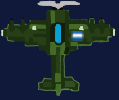
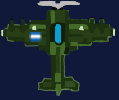
75%

Changed region(s): [[0.5798, 0.3, 0.7059, 0.42], [0.2269, 0.3, 0.3529, 0.42]]

diff --git a/main.py b/main.py
@@ -2,13 +2,13 @@ import pygame
 from inicio import Inicio
 from mapa import Mapa
 from jugador import Jugador
-from elementos import Avion1, Avion2, Misil1, Misil2, Nubes, Estrella, ColisionRoja, Ovni, Nivel
+from elementos import Avion1, Avion2, Misil1, Misil2, Nubes, Estrella, ColisionAviones, Ovni, Nivel
 pygame.init()
 
 medidaPantalla = (800,750)
 pantalla = pygame.display.set_mode(medidaPantalla)
 reloj = pygame.time.Clock()
-#inicio=Inicio()
+inicio=Inicio()
 
 vidaJugador = True
 dia= True
@@ -20,21 +20,22 @@ jugador=Jugador("Mica ")
 nubes=Nubes()
 misil1=Misil1()
 misil2=Misil2()
-colisionR=ColisionRoja()
+colision=ColisionAviones()
 estrella=Estrella()
 avion1= Avion1()
 avion2=Avion2()
 ovni=Ovni()
 nivel=Nivel()
+plusVida=True
 
-#inicio.dibujar()
+#inicio.dibujar(pantalla)
 
 
 while vidaJugador:
     mapa.dibujarMapa(pantalla)
     nubes.dibujarNubes(pantalla)
     mapa.marcador(pantalla, 1, jugador.puntos)
-    mapa.nivelJugador(pantalla, jugador.nombre)
+    mapa.estadoJugador(pantalla, jugador.nombre, jugador.vida)
     
 
     for event in pygame.event.get():
@@ -54,32 +55,34 @@ while vidaJugador:
     if jugador.puntos<80:                       #################################################---NIVEL1---
         rectA1=avion1.imagen.get_rect(x=avion1.coordX, y=avion1.coordY)
         avion1.dibujarAvion(pantalla,4.5,5)
-        if rectJ.colliderect(rectA1):   #agregar colision balas
-            pass
-            #jugador.vida-=1
-            #print("-1")
+        if rectJ.colliderect(rectA1): 
+            colision.explotar(pantalla, jugador.posX-20)
+            jugador.vida-=5
+        
         if rectJB.colliderect(rectA1) and jugador.BanderaImpacto:
             jugador.puntos+=10
             jugador.BanderaImpacto=False
 
  ##################---DefinirImagenLevelUp
 
+    plusVida=True
     if jugador.puntos>=80 and jugador.puntos<150 and misil1.contador<15:    ############################################---NIVEL2---
         rectM1=misil1.misil1[0].get_rect(x=misil1.coordX, y=misil1.coordY)
         rectM2=misil2.misil2[0].get_rect(x=misil2.coordX, y=misil2.coordY)
         misil1.dibujarMisil(pantalla)
         misil2.dibujarMisil(pantalla)
         if rectJ.colliderect(rectM1) or rectJ.colliderect(rectM2):
-            colisionR.explotarR(pantalla, jugador.posX)
+            colision.explotar(pantalla, jugador.posX-20)
+
 
 
     if (jugador.puntos>=150 and jugador.puntos<250) or misil1.contador==15:   ############################################---NIVEL3---
         rectA1=avion1.imagen.get_rect(x=avion1.coordX, y=avion1.coordY)
         rectA2=avion2.imagen.get_rect(x=avion2.coordX, y=avion2.coordY)
-        avion1.dibujarAvion(pantalla,4.5,5)
-        avion2.dibujarAvion(pantalla, 4.5,6)
+        avion1.dibujarAvion(pantalla,4,8)
+        avion2.dibujarAvion(pantalla, 4,8)
         if rectJ.colliderect(rectA1) or rectJ.colliderect(rectA2):
-            pass
+            colision.explotar(pantalla, jugador.posX-20)
         if rectJB.colliderect(rectA1) or rectJB.colliderect(rectA2):
             jugador.puntos+=10
             jugador.BanderaImpacto=False 
@@ -88,7 +91,12 @@ while vidaJugador:
         ovni.dibujarOvni(pantalla)
 
 
-    estrella.caer(pantalla)
+    if jugador.vida<800 and plusVida:
+        rectE=estrella.estrella.get_rect(x=estrella.coordX, y=estrella.coordY)
+        estrella.caer(pantalla)
+        plusVida=False
+        if rectJ.colliderect(rectE):
+            jugador.vida+=500
     #if colision==True:
     #    colision=False
     #    colisiones+=1

diff --git a/elementos.py b/elementos.py
@@ -141,9 +141,9 @@ class Misil2():
 class Ovni():
     def __init__(self):
         self.coordX=10
-        self.coordY=80
+        self.coordY=100
         self.cuadro=0
-        self.imagen=pygame.image.load("img/Ovni.png")
+        self.imagen=pygame.image.load("img/Ovnidos.png")
         self.direct=4
         self.imagenBala=pygame.image.load("img/DisparoOvni.png")
         self.imagenBala.set_colorkey([255,255,255])
@@ -166,7 +166,7 @@ class Ovni():
 
         if self.banderaDireccionY:
             self.coordY+=3.5
-            if self.coordY>80:
+            if self.coordY>100:
                 self.banderaDireccionY=False
         else:
             self.coordY-=3.5
@@ -227,30 +227,30 @@ class Estrella():
         self.coordX+=1
         pantalla.blit(self.estrella, (self.coordX, self.coordY))
 
-class ColisionRoja():
+
+class ColisionAviones():
     def __init__(self):
-        self.Y=580
+        self.Y=570
         self.cuadro=0
         self.listaImg=[]
-        self.Img0=pygame.image.load('img/ExplosionOvniCh.png').convert()
+        self.Img0=pygame.image.load('img/ExplosionOvniCh1.png')
         self.Img0.set_colorkey([255,255,255])
-        self.Img1=pygame.image.load('img/ExplosionOvniCh.png').convert()
+        self.Img1=pygame.image.load('img/ExplosionOvniCh2.png')
         self.Img1.set_colorkey([255,255,255])
-        self.Img2=pygame.image.load('img/ExplosionOvniCh.png').convert()
+        self.Img2=pygame.image.load('img/ExplosionOvniCh3.png')
         self.Img2.set_colorkey([255,255,255])
         self.listaImg.append(self.Img0)
         self.listaImg.append(self.Img1)
         self.listaImg.append(self.Img2)
 
-    def explotarR(self, pantalla, coordX):
-        for j in range(10):
-            for i in range (8):
-                if i<3:
-                    pantalla.blit(self.listaImg[2], (coordX, self.Y-18))
-                elif i<6:
-                    pantalla.blit(self.listaImg[1], (coordX, self.Y))
-                else:
-                    pantalla.blit(self.listaImg[0], (coordX, self.Y-30))
+    def explotar(self, pantalla, coordX):    
+        if self.cuadro==0:
+            self.cuadro+=1
+        elif self.cuadro==1:
+            self.cuadro+=1
+        elif self.cuadro==2:
+            self.cuadro=0
+        pantalla.blit(self.listaImg[self.cuadro], (coordX, self.Y))
 
 class Nivel():
     def __init__(self):

diff --git a/inicio.py b/inicio.py
@@ -1,13 +1,47 @@
 import pygame
+pygame.init()
 
 class Inicio():
-    def dibujar(self, pantalla, text):
-        self.fondo=pygame.image.load("img/noche.png")
-        self.fuente=pygame.font.SysFont("Courier", 30, bold= True)
-        self.superficie=self.fuente.render(text,True,(255,255,255))
-        pantalla.blit(self.fondo, [0, 0])
+    def dibujar(self, pantalla):
+        self.bandera=True
+        self.fondo=pygame.image.load("img/Bienvenido.png").convert()
+        self.enterCh=pygame.image.load("img/EnterCh.png").convert()
+        self.enterGR=pygame.image.load("img/EnterGr.png").convert()
+        self.cuadro=0
+        self.enter=[]
+        self.enter.append(pygame.image.load("img/EnterCh.png"))
+        self.enter.append(pygame.image.load("img/EnterGr.png"))
+        self.contador=0
+
+        while self.bandera:
+            for event in pygame.event.get():
+                if event.type == pygame.KEYDOWN:
+                    if event.key == pygame.K_KP_ENTER:
+                        self.bandera = False
+
+            if self.cuadro==0:
+                self.contador+=1
+                if self.contador>20:
+                    self.cuadro=1
+            if self.cuadro==1:
+                self.contador-=1
+                if self.contador<1:
+                    self.cuadro=0
         
+            pantalla.blit(self.fondo, [0, 0])
+            pantalla.blit(self.enter[self.cuadro], [4, 680])
+
 
         ##################--Definir: seleccion de acciones para ingresar, modificar, listar y eliminar jugadores.
         ### Definir selección de avion
 
+#prueba
+
+
+medidaPantalla = (800,750)
+pantalla = pygame.display.set_mode(medidaPantalla)
+
+inicio=Inicio()
+inicio.dibujar(pantalla)
+
+pygame.display.flip()

diff --git a/mapa.py b/mapa.py
@@ -29,13 +29,23 @@ class Mapa:
         pantalla.blit(self.superficie, [20, 20])
         pantalla.blit(self.superficieN, [20, 40])
 
-    def nivelJugador(self, pantalla, jugador):
+    def estadoJugador(self, pantalla, jugador, vida):
         self.color= (0 ,0 ,0)
         self.colorFondo=(255,255,255)
         self.fuente=pygame.font.SysFont("Courier", 20, bold= True)
         self.superficie=self.fuente.render(str(jugador),True,self.color, self.colorFondo)
         self.vida=pygame.image.load('img/vida.png')
         self.vida.set_colorkey([255,255,255])
-        pantalla.blit(self.vida, [690, 20])
-        pantalla.blit(self.superficie, [620, 20])
+        pantalla.blit(self.superficie, [700, 20])
+        
+        if vida==1000:
+            pantalla.blit(self.vida, [730, 50])
+        if vida>800:
+            pantalla.blit(self.vida, [690, 50])
+        if vida>600:
+            pantalla.blit(self.vida, [650, 50])
+        if vida>400:
+            pantalla.blit(self.vida, [610, 50])
+        if vida>200:
+            pantalla.blit(self.vida, [570, 50])
         

diff --git a/accesoDatos.py b/accesoDatos.py
@@ -23,16 +23,6 @@ class AccesoDatos:
             except Error as ex:
                 print(f'Fallo: {ex}')
 
-    def ejecutarAccion(self,string):
-        if self.conexion.is_connected():
-            try:
-                cursor=self.conexion.cursor()
-                cursor.execute(string)
-                self.conexion.commit()
-                print('guardadoOk')
-            except Error as ex:
-                print(f'Fallo: {ex}')
-
     def listarRanking(self):
         if self.conexion.is_connected():
             try:

diff --git a/jugador.py b/jugador.py
@@ -4,11 +4,12 @@ import pygame
 class Jugador():
     def __init__(self, nombre):
         self.nombre=nombre
-        self.image=pygame.image.load("img/Jugador.png").convert()
+        self.image=pygame.image.load("img/Jugadorbn.png").convert()
         self.image.set_colorkey([16,25,57])
         self.posX=340
         self.posY=625
-        self.vida=5
+        self.banderaVida=True
+        self.vida=1000
         self.puntos=0
         self.nivel=1
         self.bala=pygame.image.load("img/bala.png")
